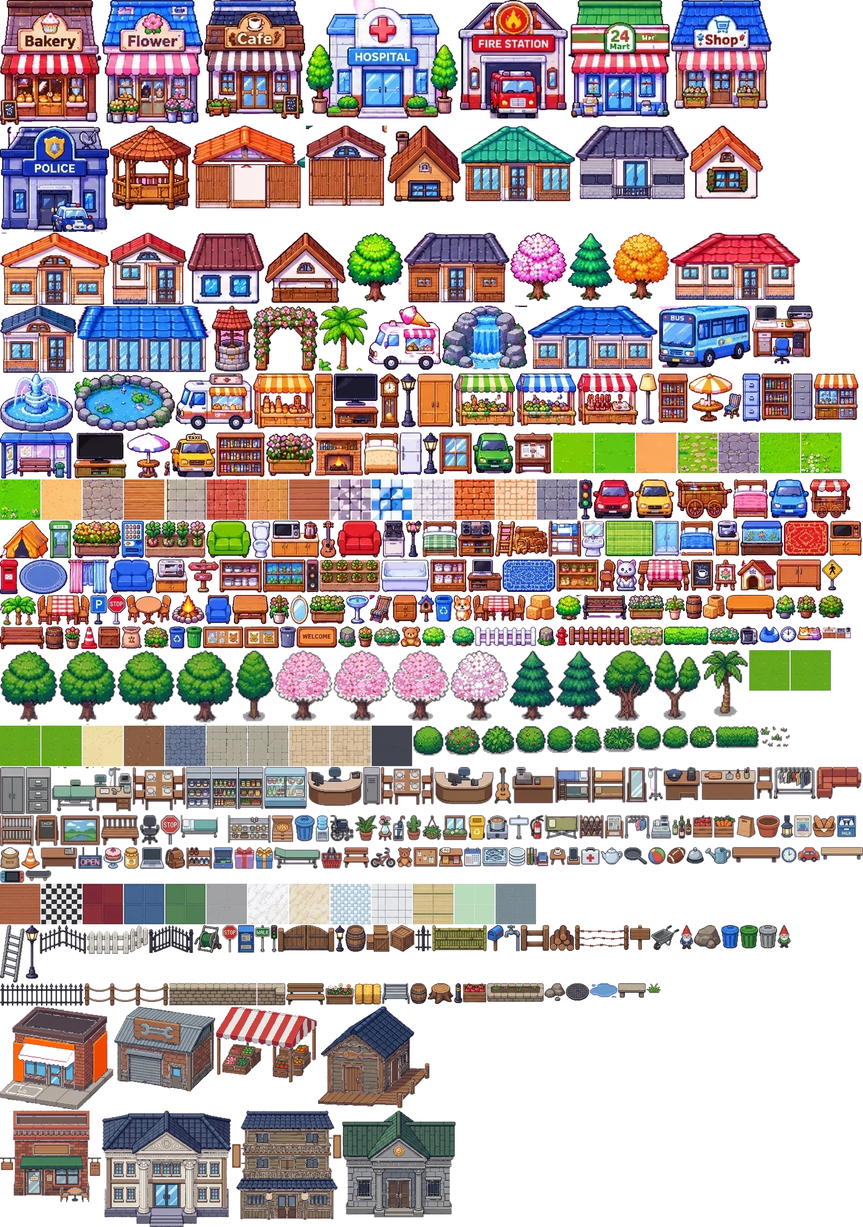
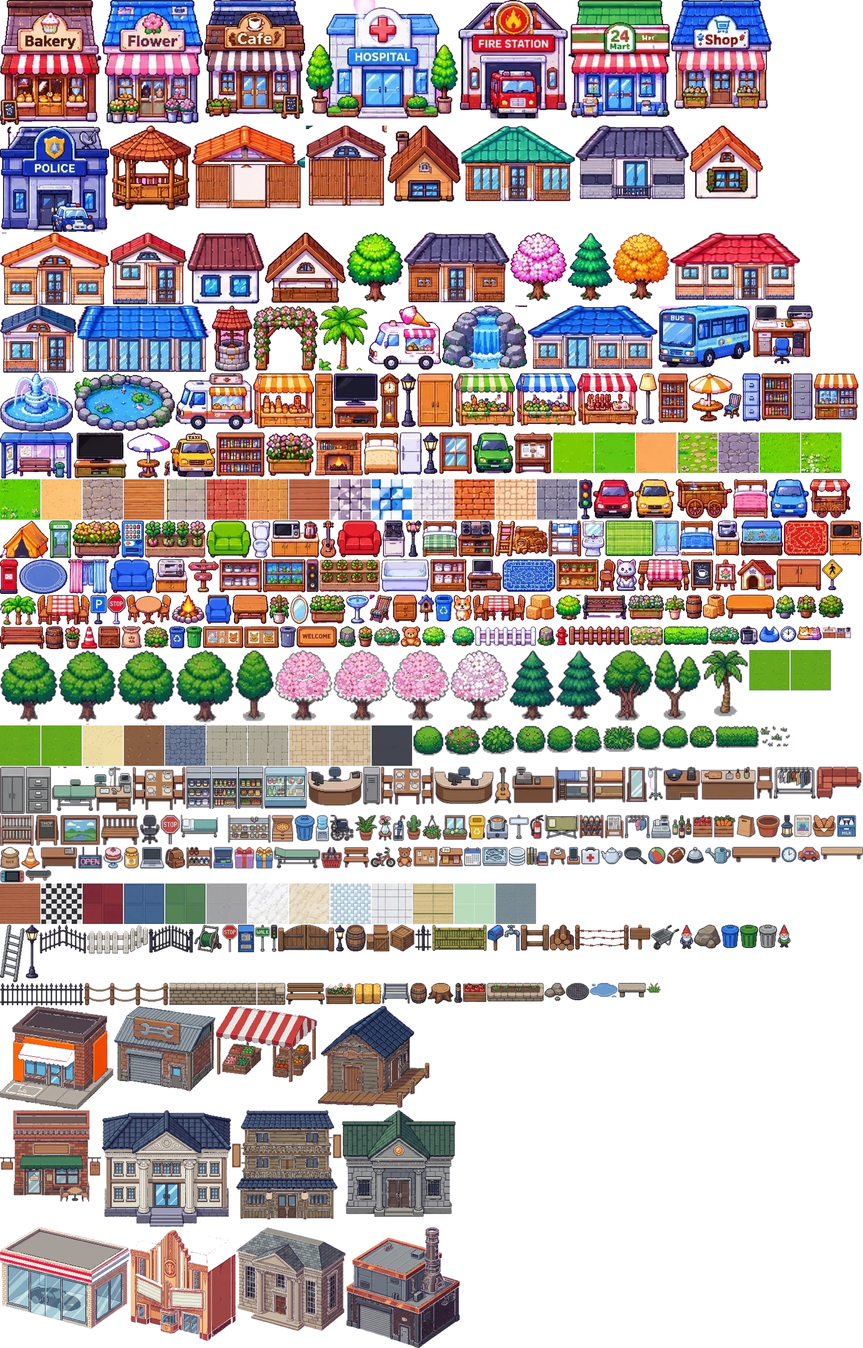
Replace dealer, cinema, library and warehouse art with sheet C (showroom, theatre, stone hall, factory)
Claude-Session: https://claude.ai/code/session_011vTRLcvJmqJKhBboYRSi88

diff --git a/server/data.js b/server/data.js
@@ -82,7 +82,7 @@ function pathDown(b, toY) { const cx = Math.floor(b.x + b.w / 2); for (let y = b
 
   // west main road, north side (doors on row 30)
   B('toolshop', 'b_toolshop', 4, 30, { label: 'ร้านอุปกรณ์', icon: '🛠', st: 'toolshop' });
-  pathDown(B('dealer', 'b_dealer', 11, 28, { label: 'โชว์รูมรถ', icon: '🚧', st: 'dealer', renov: true }), 30);
+  pathDown(B('dealer', 'b_showroom', 11, 28, { label: 'โชว์รูมรถ', icon: '🚧', st: 'dealer', renov: true }), 30);
   B('school', 'b_school2', 20, 30, { label: 'มหาวิทยาลัย', icon: '🎓', st: 'school' });
   pathDown(B('bank', 'b_bank2', 30, 27, { label: 'ธนาคาร', icon: '🏦', st: 'bank' }), 30);
   // east main road, north side
@@ -93,10 +93,10 @@ function pathDown(b, toY) { const cx = Math.floor(b.x + b.w / 2); for (let y = b
   // north street
   B('police', 'b_police', 18, 13, { label: 'สถานีตำรวจ', icon: '👮', st: 'police' });
   pathDown(B('fire', 'b_fire', 26, 12, { label: 'สถานีดับเพลิง', icon: '🚒', deco: true }), 13);
-  B('cinema', 'b_studio', 35, 13, { label: 'โรงหนัง', icon: '🎬', deco: true, renov: true });
-  B('inn', 'b_inn2', 58, 13, { label: 'ห้องสมุดเมือง', icon: '📚', deco: true });
+  B('cinema', 'b_cinema', 35, 13, { label: 'โรงหนัง', icon: '🎬', deco: true, renov: true });
+  B('inn', 'b_library', 58, 13, { label: 'ห้องสมุดเมือง', icon: '📚', deco: true });
   // south-west lane (doors on row 45)
-  B('warehouse', 'b_warehouse', 5, 45, { label: 'คลังสินค้าราคาส่ง', icon: '📦', st: 'warehouse' });
+  B('warehouse', 'b_factory', 5, 45, { label: 'คลังสินค้าราคาส่ง', icon: '📦', st: 'warehouse' });
   pathDown(B('restaurant', 'b_cafe2', 13, 44, { label: 'ร้านอาหาร', icon: '🍜', st: 'restaurant' }), 45);
   B('kitchen', 'b_bakery', 21, 45, { label: 'ครัวใหญ่ (เชฟ)', icon: '🍳', st: 'kitchen' });
   B('rider', 'b_rider', 29, 45, { label: 'ศูนย์ไรเดอร์', icon: '🛵', st: 'rider' });

diff --git a/tools/add_buildings.py b/tools/add_buildings.py
@@ -13,7 +13,8 @@ JS = os.path.join(ROOT, 'public', 'assets', 'atlas.json')
 TILE = 48
 # name: (sheet, cell col, cell row, width in game tiles)
 ITEMS = {'b_rider': ('a', 0, 0, 5.6), 'b_toolshop': ('a', 1, 0, 5), 'b_market': ('a', 0, 1, 5), 'b_fishing': ('a', 1, 1, 5.5),
-         'b_cafe2': ('b', 0, 0, 5), 'b_school2': ('b', 1, 0, 6.4), 'b_inn2': ('b', 0, 1, 5.4), 'b_bank2': ('b', 1, 1, 5.6)}
+         'b_cafe2': ('b', 0, 0, 5), 'b_school2': ('b', 1, 0, 6.4), 'b_inn2': ('b', 0, 1, 5.4), 'b_bank2': ('b', 1, 1, 5.6),
+         'b_showroom': ('c', 0, 0, 6.4), 'b_cinema': ('c', 1, 0, 5.2), 'b_library': ('c', 0, 1, 5.4), 'b_factory': ('c', 1, 1, 5.6)}
 SHEET = lambda k: os.path.join(ROOT, 'tools', 'sheets', f'pixel_buildings_{k}.jpg')
 
 def cut(sheet, col, row):
